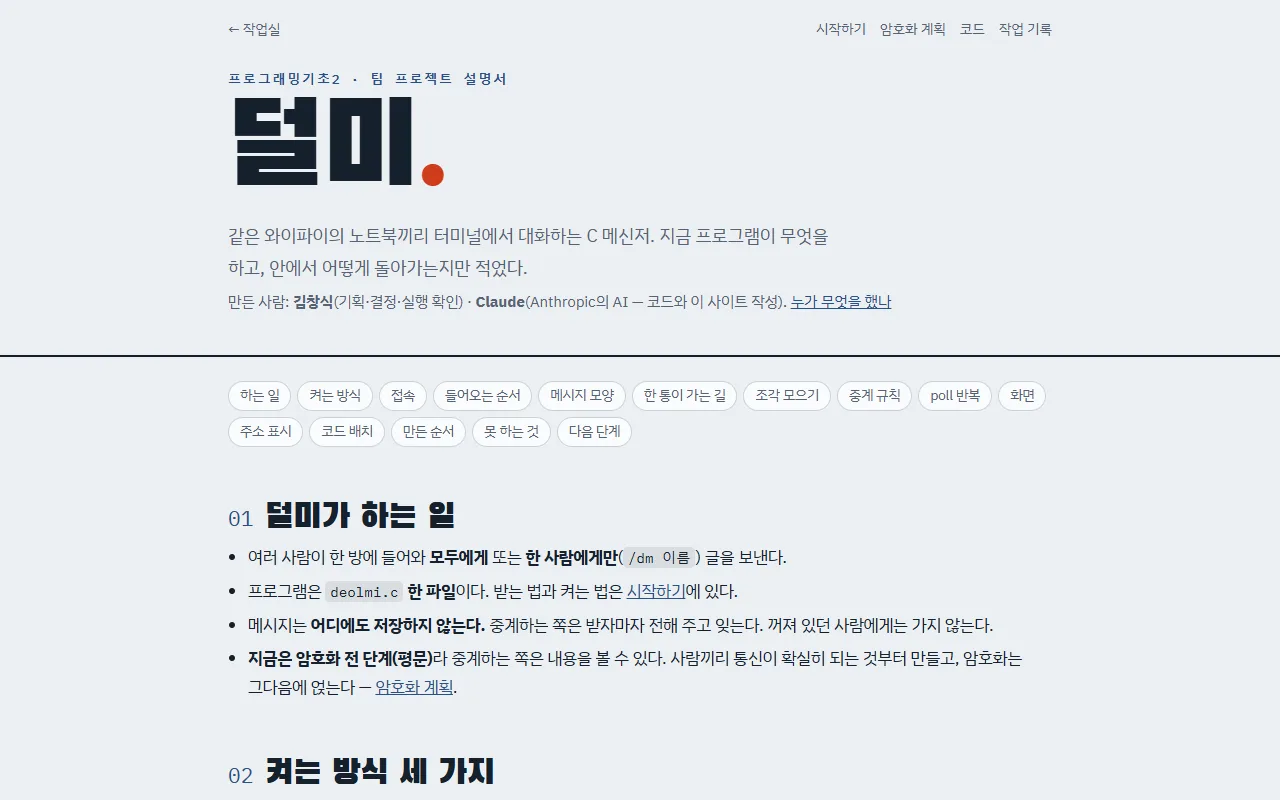
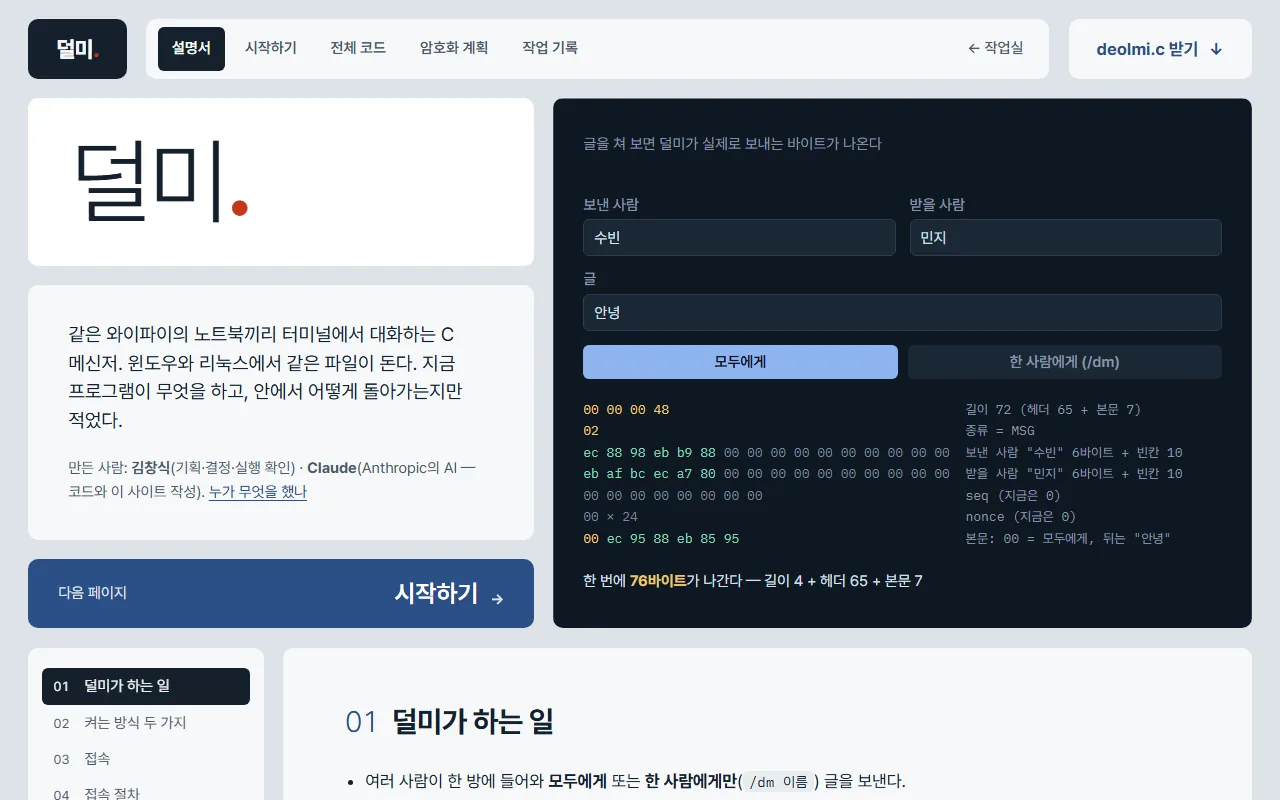
작업실 덜미 카드 그림을 새 디자인으로, 덜미 첫 화면: 1100~1500px 폭에서 패킷 설명이 잘리던 것 고침
- 1500px 이하: 오른쪽 터미널 칸을 넓히고 '다음 페이지' 칸은 설명 아래 한 줄로
- 1250px 이하: 바이트 글씨 조금 작게
사용자 요청(김창식): 새 디자인으로 바꿔 / 작업: Claude

diff --git a/secure-msg/site.css b/secure-msg/site.css
@@ -202,6 +202,15 @@ td.bad{color:var(--void);font-weight:700} td.good{color:var(--seal);font-weight:
 .js .h-ui.rise.in{clip-path:inset(0 0 0 0)}
 @media (prefers-reduced-motion:reduce){html{scroll-behavior:auto}.js .rise,.js .h-ui.rise{opacity:1;transform:none;clip-path:none;transition:none}}
 
+@media (max-width:1500px) and (min-width:1001px){
+  .hero{grid-template-columns:minmax(0,.84fr) minmax(0,1.16fr)}
+  .h-low{grid-template-columns:minmax(0,1fr)}
+  .h-next{flex-direction:row;align-items:center;padding:20px 30px}
+}
+@media (max-width:1250px) and (min-width:1001px){
+  .h-ui{padding:30px 24px}
+  .pk-out{font-size:11.5px}
+}
 @media (max-width:1000px){
   .hero{grid-template-columns:minmax(0,1fr);grid-template-rows:auto;min-height:0}
   .h-name h1{font-size:clamp(56px,13vw,124px)}
